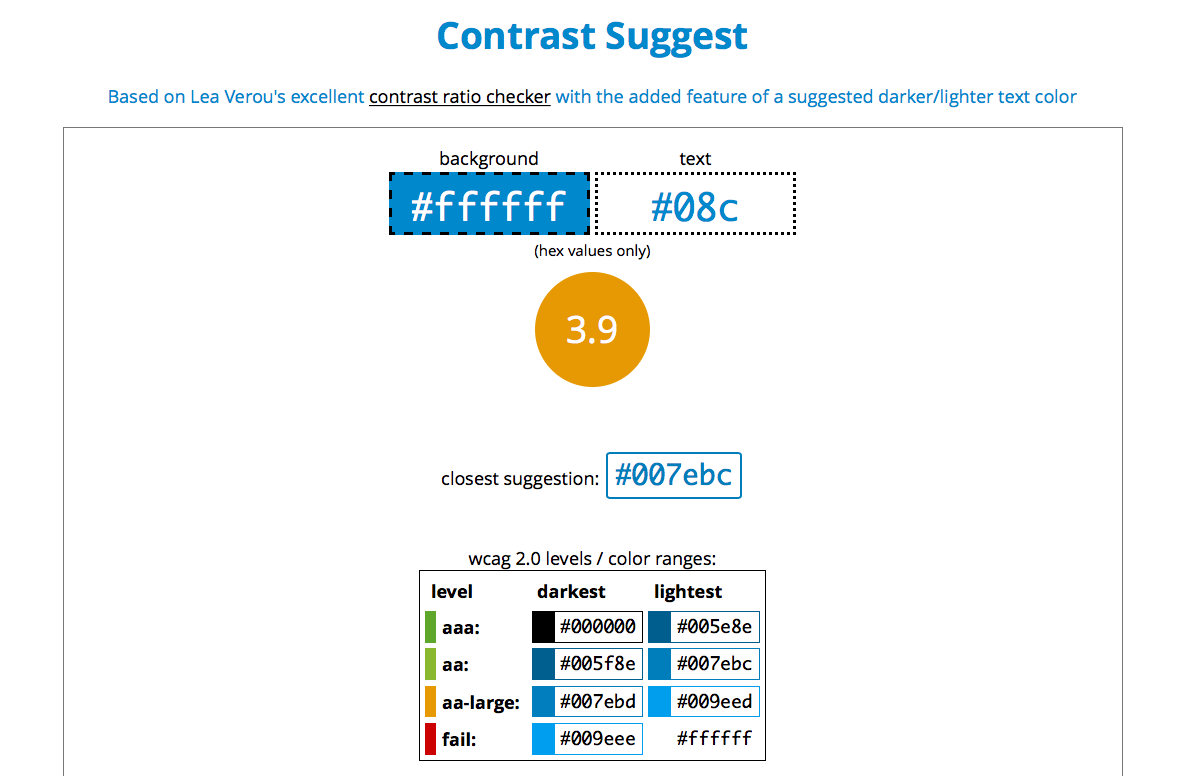
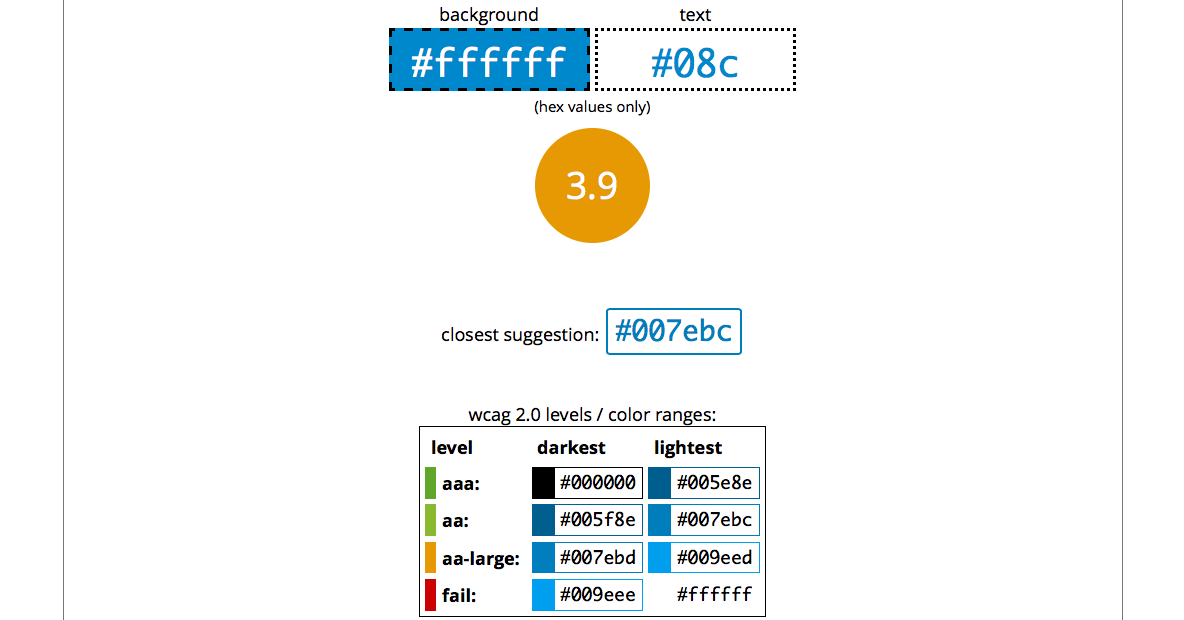
update fb image to png with correct aspect ratio

Changed region(s): [[0.0625, 0.0, 0.9375, 1.0]]

diff --git a/index.html b/index.html
@@ -5,7 +5,7 @@
 	<title>Contrast Suggest</title>
 	<link rel="stylesheet" href="style.css">
 	<meta name="viewport" content="width=device-width, initial-scale=1">
-	<meta property="og:image" content="https://laviperchik.github.io/contrast-suggest/thumb.jpg" />
+	<meta property="og:image" content="thumb.png" />
 </head>
 <body>
 	<div class="container">
